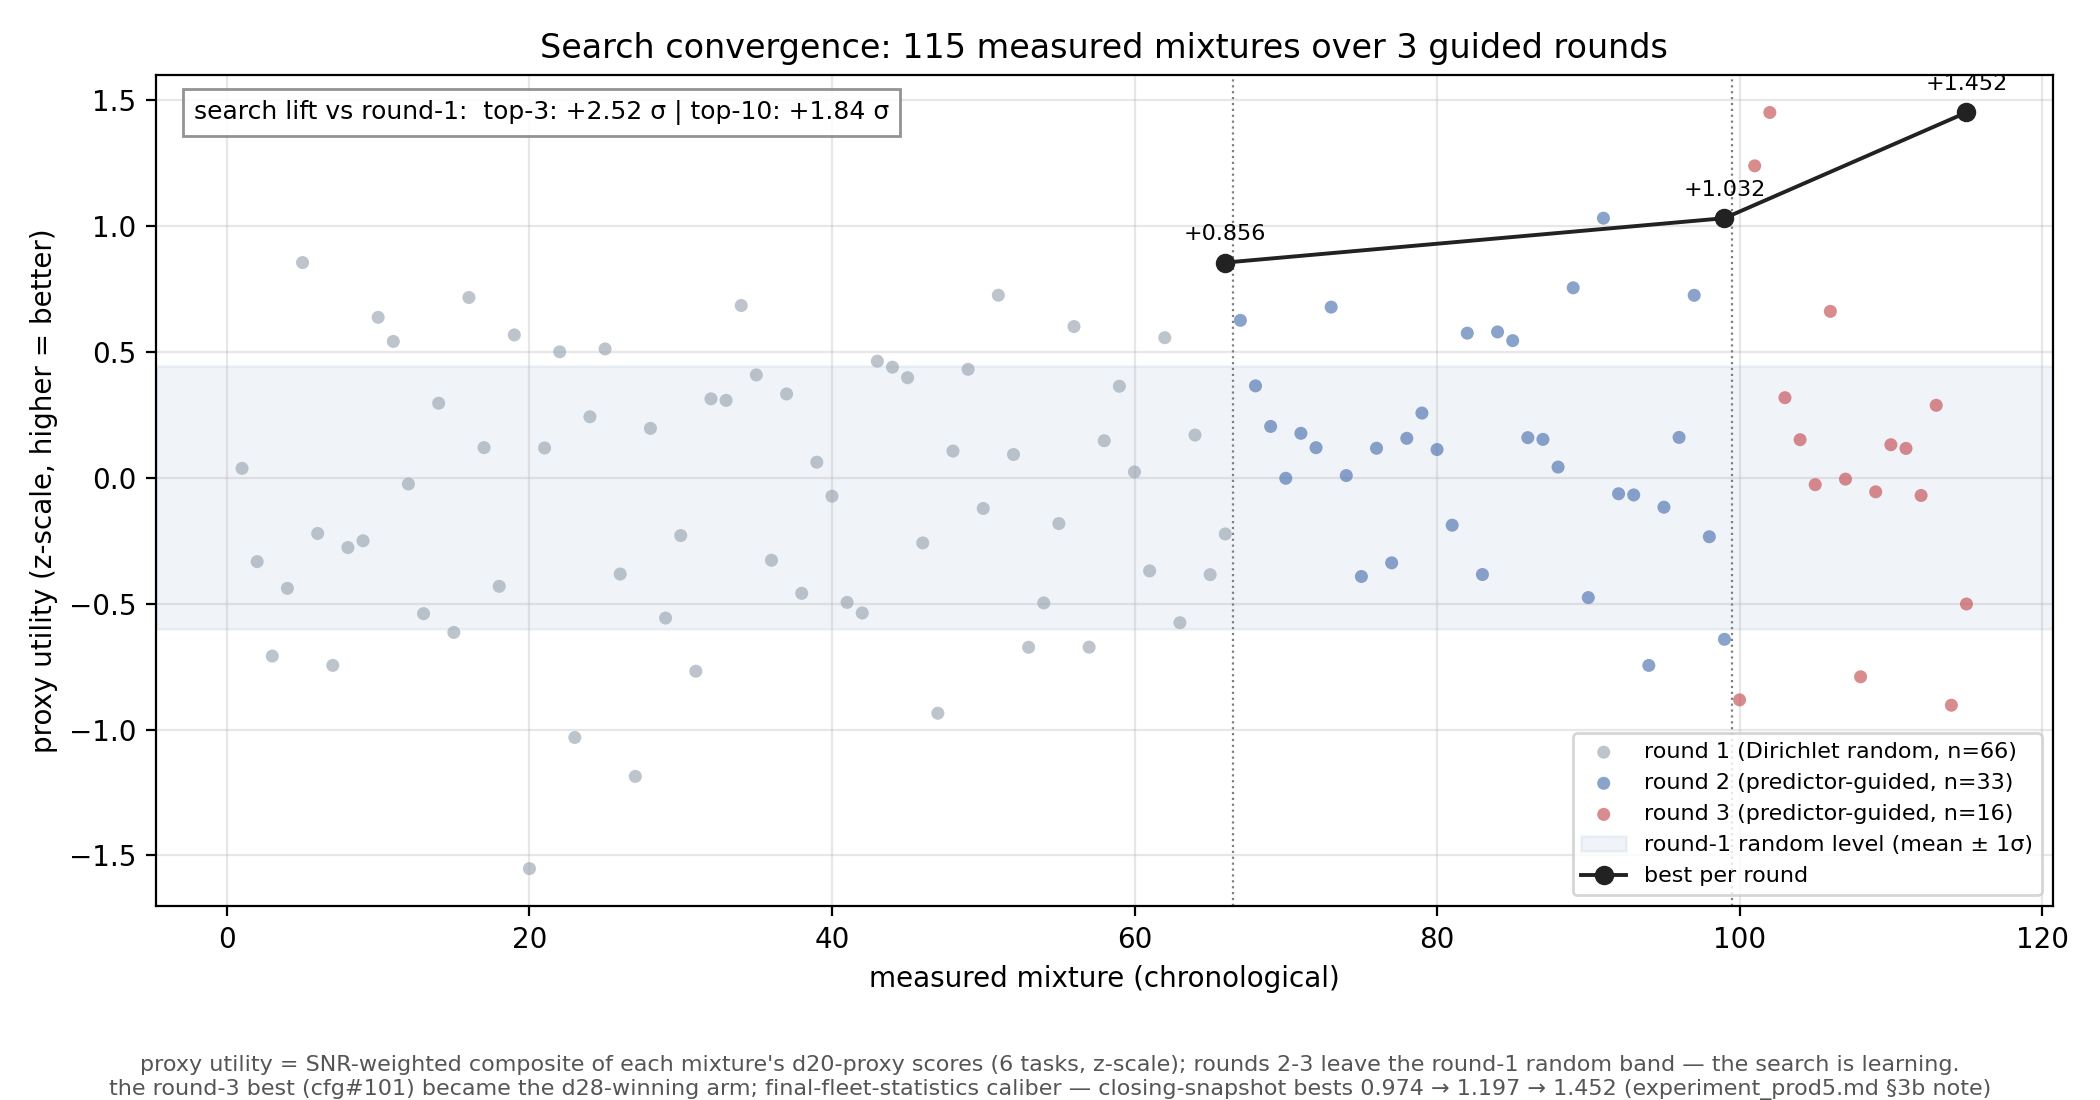
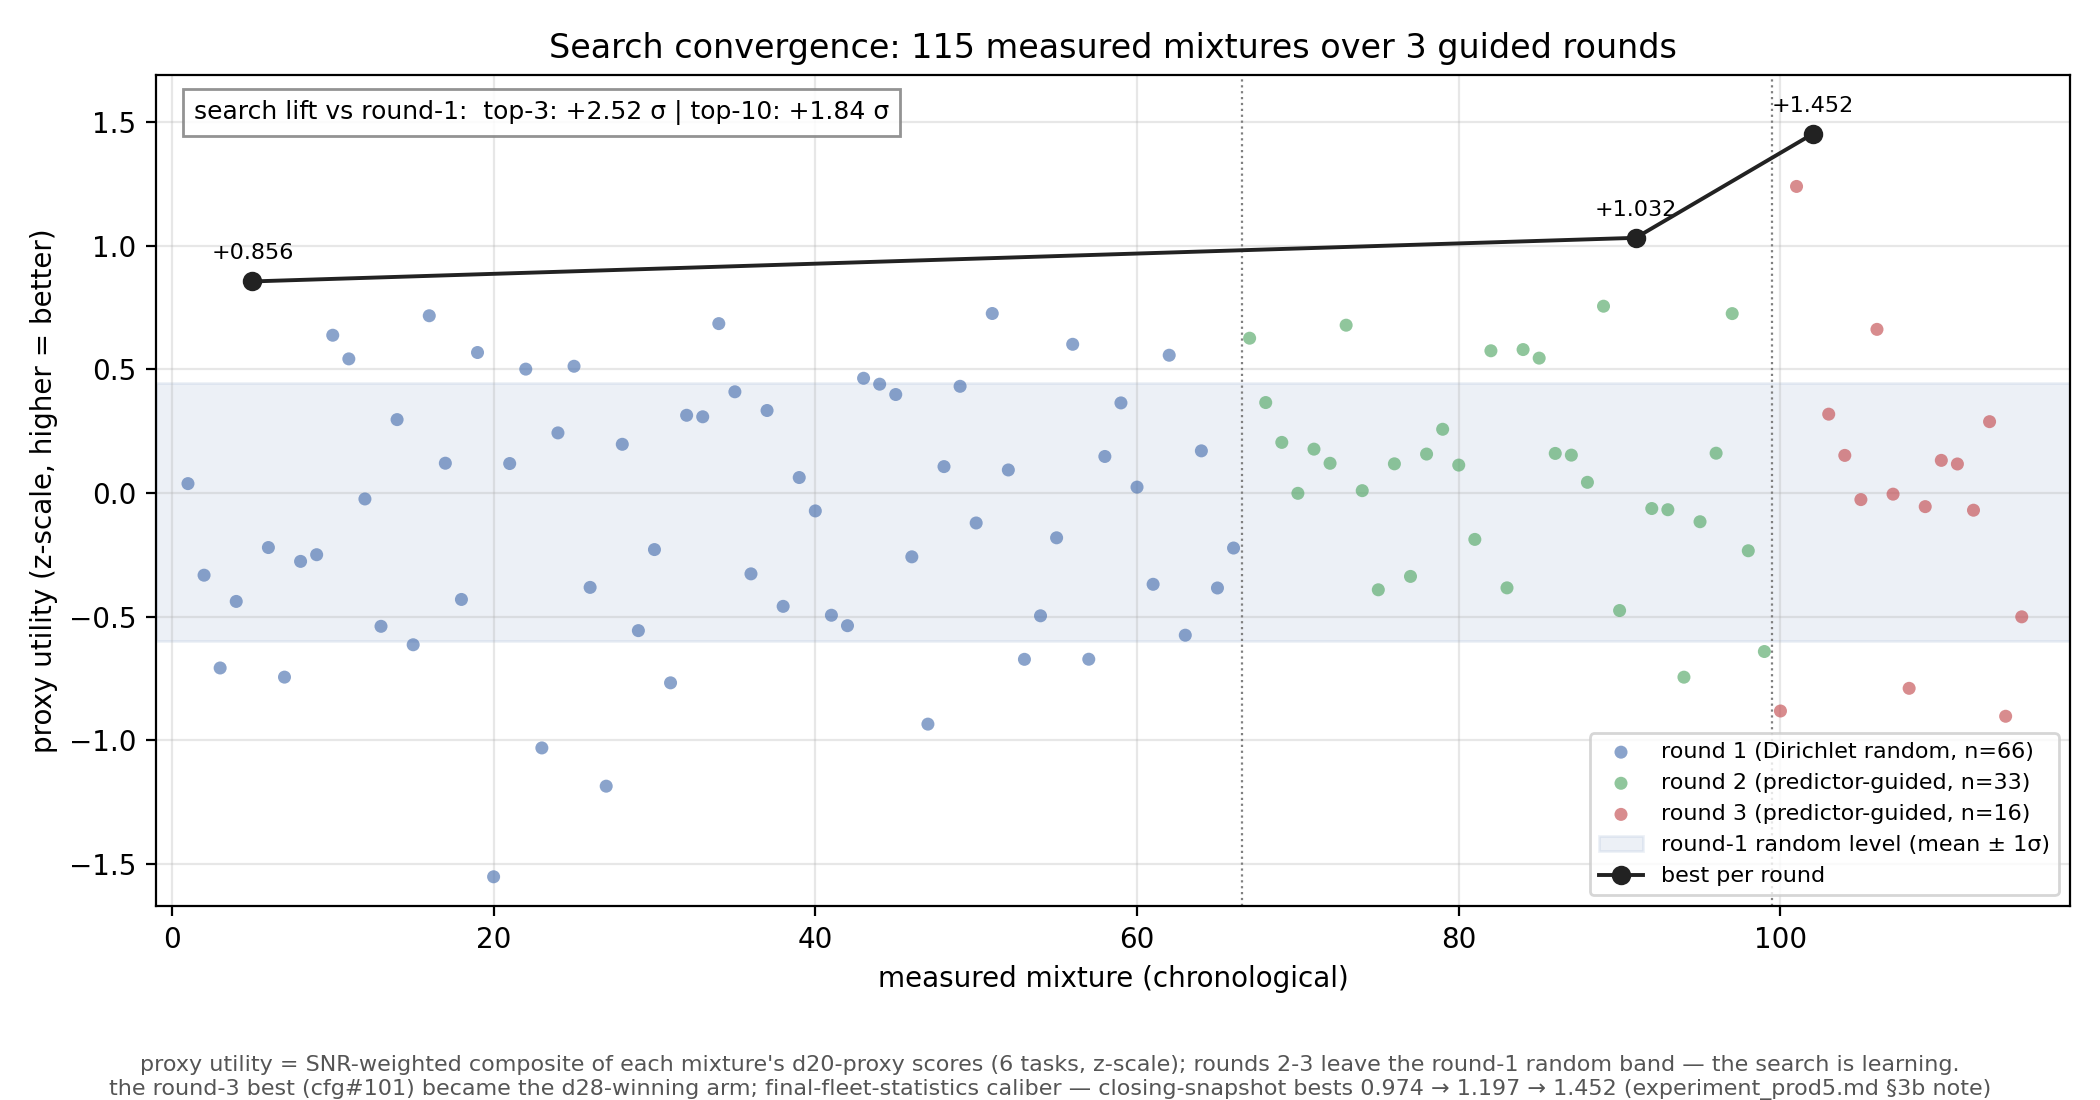
fix(charts): search-convergence — anchor best-line at true best positions (was round-end, hugged right edge), deck round palette, axis headroom

diff --git a/scripts/diagnostics/make_search_convergence.py b/scripts/diagnostics/make_search_convergence.py
@@ -48,7 +48,7 @@ CSV_NAME = "prod5_search_dump.csv"
 BEST_EXPECTED = {1: 0.8560, 2: 1.0324, 3: 1.4524}   # 终态口径轮最佳
 COUNTS_EXPECTED = {1: 66, 2: 33, 3: 16}              # 文档口径 §3a
 FLEET_BEST_ID, FLEET_BEST_SCORE = 101, 1.4524         # cfg#101, 两口径公共
-ROUND_COLORS = {1: "#9aa5b1", 2: "#4C72B0", 3: "#C44E52"}
+ROUND_COLORS = {1: "#4C72B0", 2: "#55A868", 3: "#C44E52"}  # deck 同款
 ROUND_LABELS = {1: "round 1 (Dirichlet random, n=66)",
                 2: "round 2 (predictor-guided, n=33)",
                 3: "round 3 (predictor-guided, n=16)"}
@@ -101,10 +101,16 @@ def main():
                    label=ROUND_LABELS[r], zorder=3)
     for r, b in ((2, 66.5), (3, 99.5)):
         ax.axvline(b, color="gray", linestyle=":", linewidth=0.8)
-    ax.axhspan(mu - sd, mu + sd, color="#4C72B0", alpha=0.08, zorder=1,
+    ax.axhspan(mu - sd, mu + sd, color="#4C72B0", alpha=0.10, zorder=1,
                label="round-1 random level (mean ± 1σ)")
-    bx = [66, 99, 115]
-    by = [float(scores[it == r].max()) for r in (1, 2, 3)]
+    # best 连线锚定各轮最佳的**真实位置** (deck chart A 同款, 非轮末)
+    bx, by = [], []
+    for r in (1, 2, 3):
+        m = np.where(it == r)[0]
+        gi = int(m[np.argmax(scores[m])])
+        bx.append(gi + 1)
+        by.append(float(scores[gi]))
+    assert ids[bx[2] - 1] == FLEET_BEST_ID, "round-3 best is not cfg#101"
     ax.plot(bx, by, "o-", color="#222222", linewidth=1.4, markersize=6,
             label="best per round", zorder=5)
     for xi, yi in zip(bx, by):
@@ -116,6 +122,8 @@ def main():
             bbox=dict(facecolor="white", edgecolor="gray", alpha=0.85))
     ax.set_xlabel("measured mixture (chronological)")
     ax.set_ylabel("proxy utility (z-scale, higher = better)")
+    ax.set_xlim(-1, 118)
+    ax.set_ylim(float(scores.min()) - 0.12, max(by) + 0.24)
     ax.set_title("Search convergence: 115 measured mixtures over "
                  "3 guided rounds")
     ax.legend(fontsize=8, loc="lower right")
